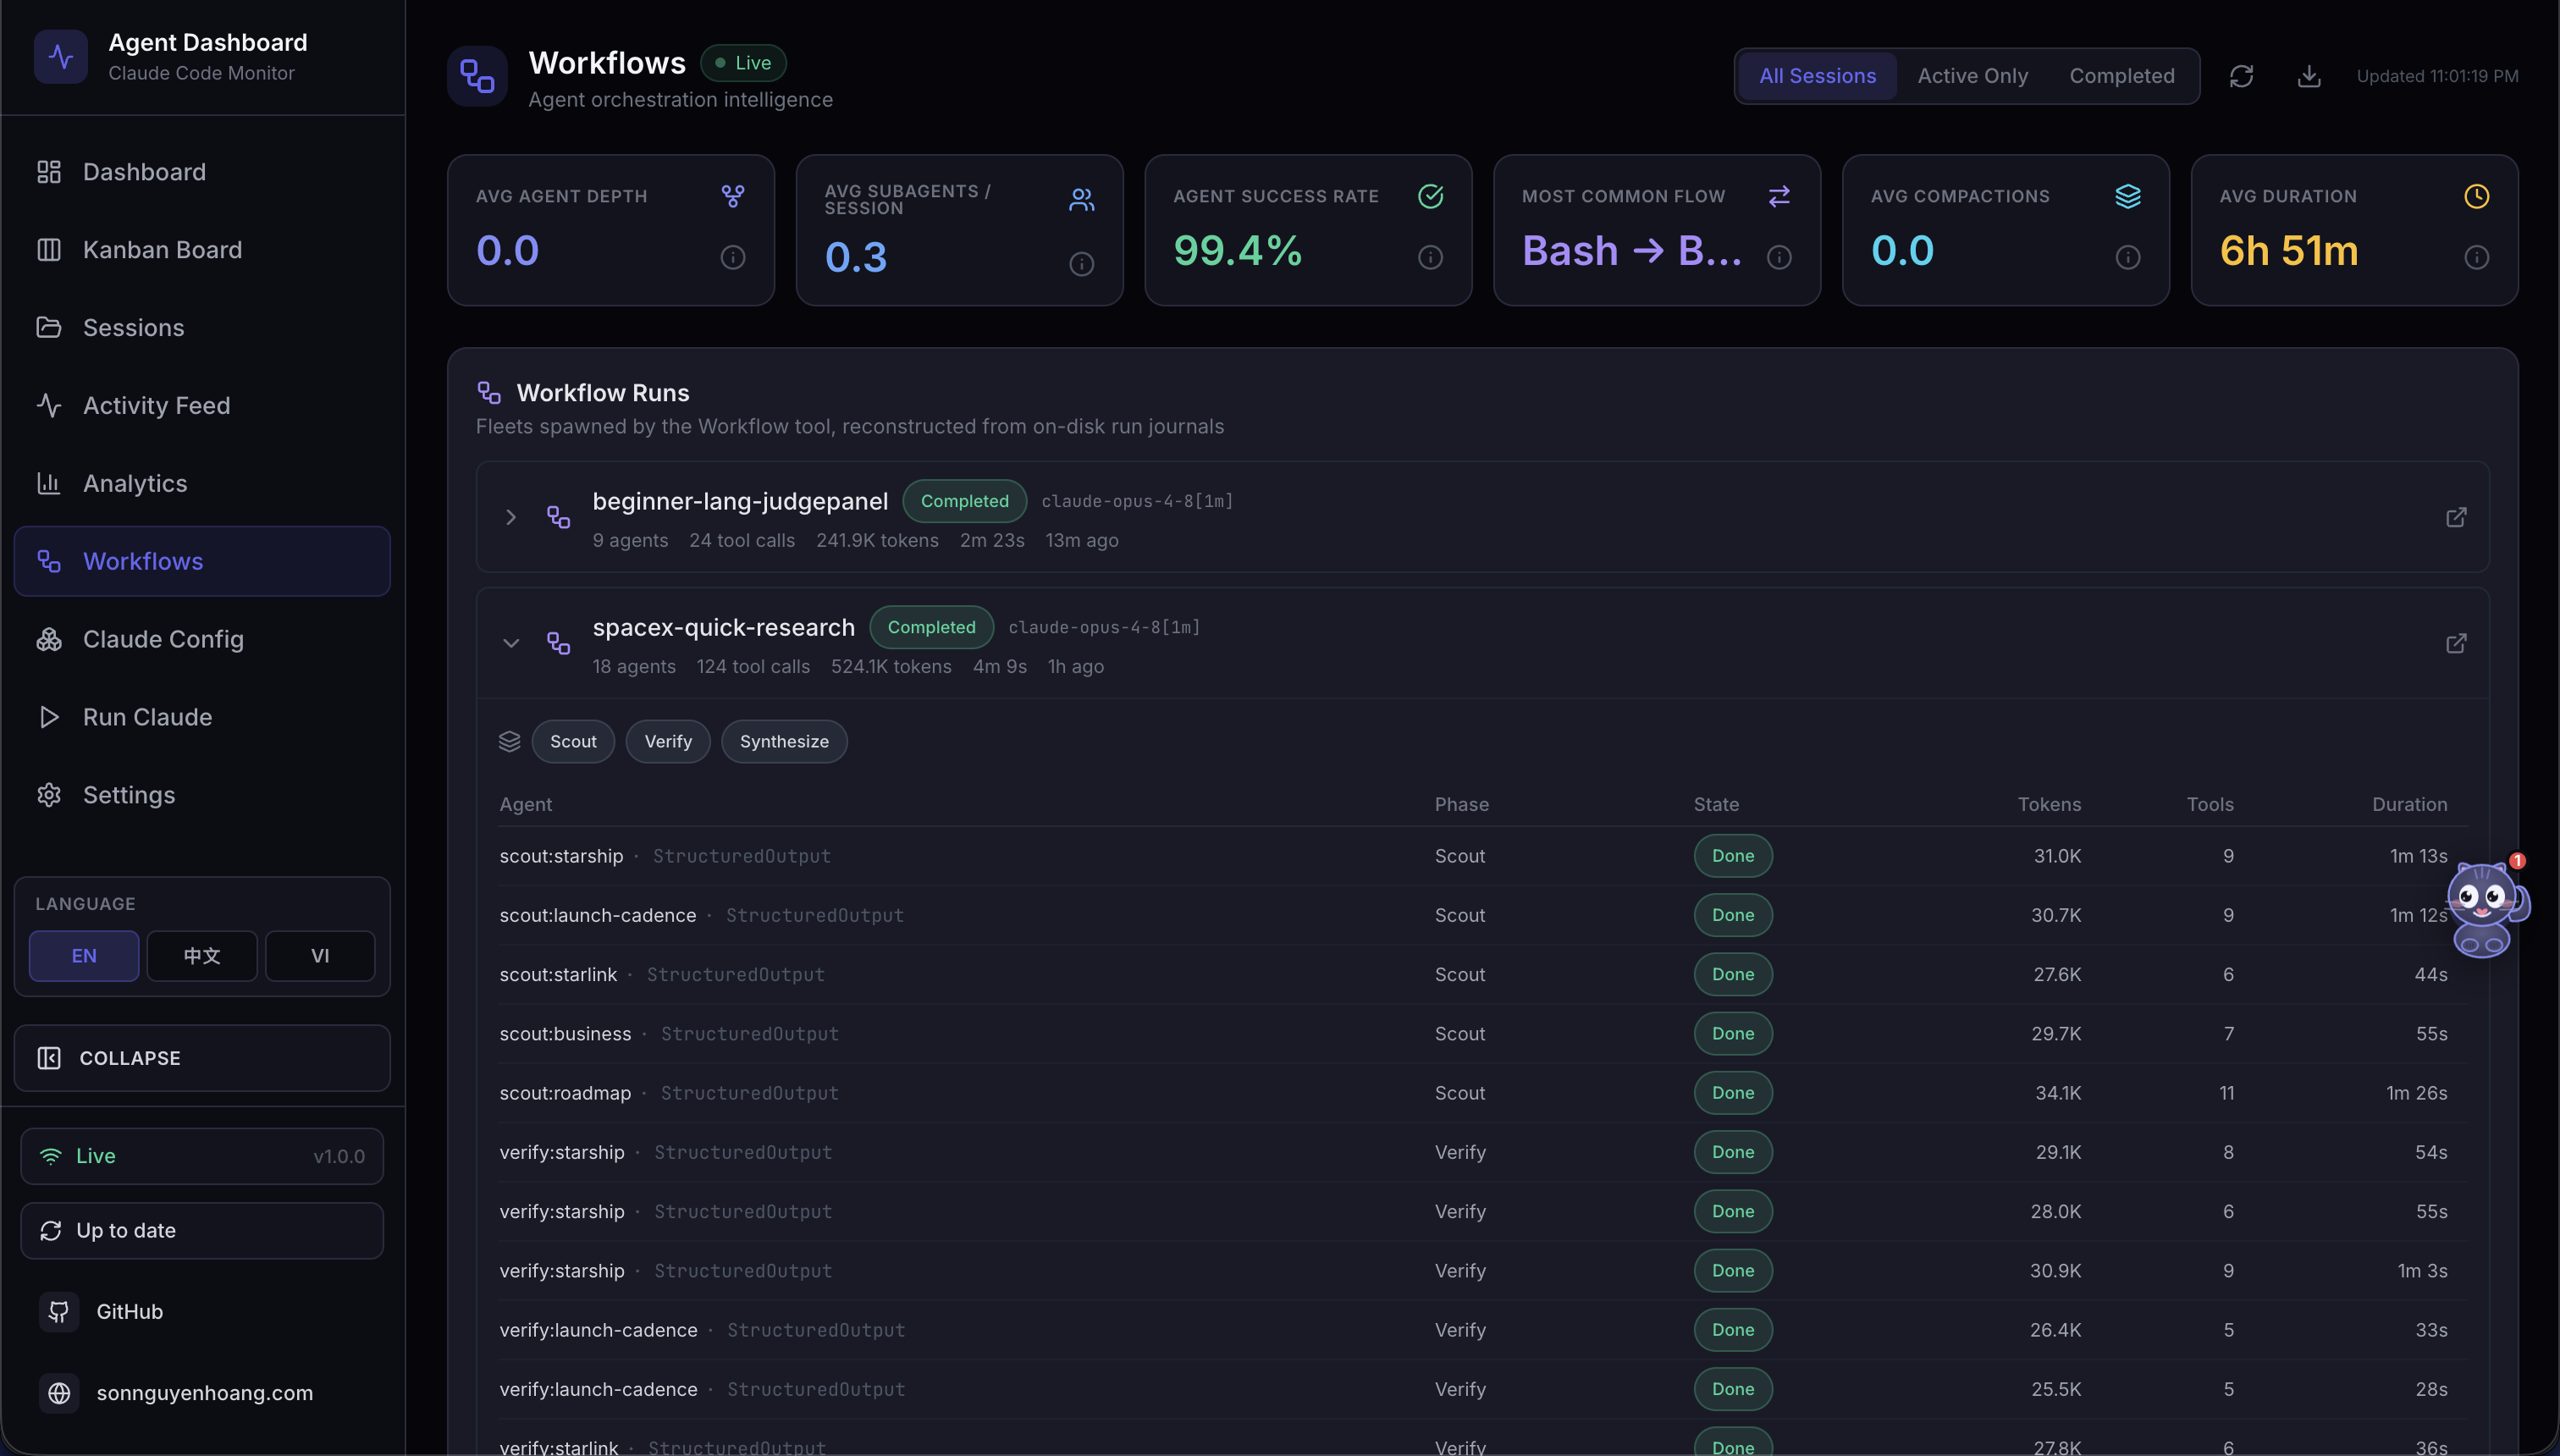
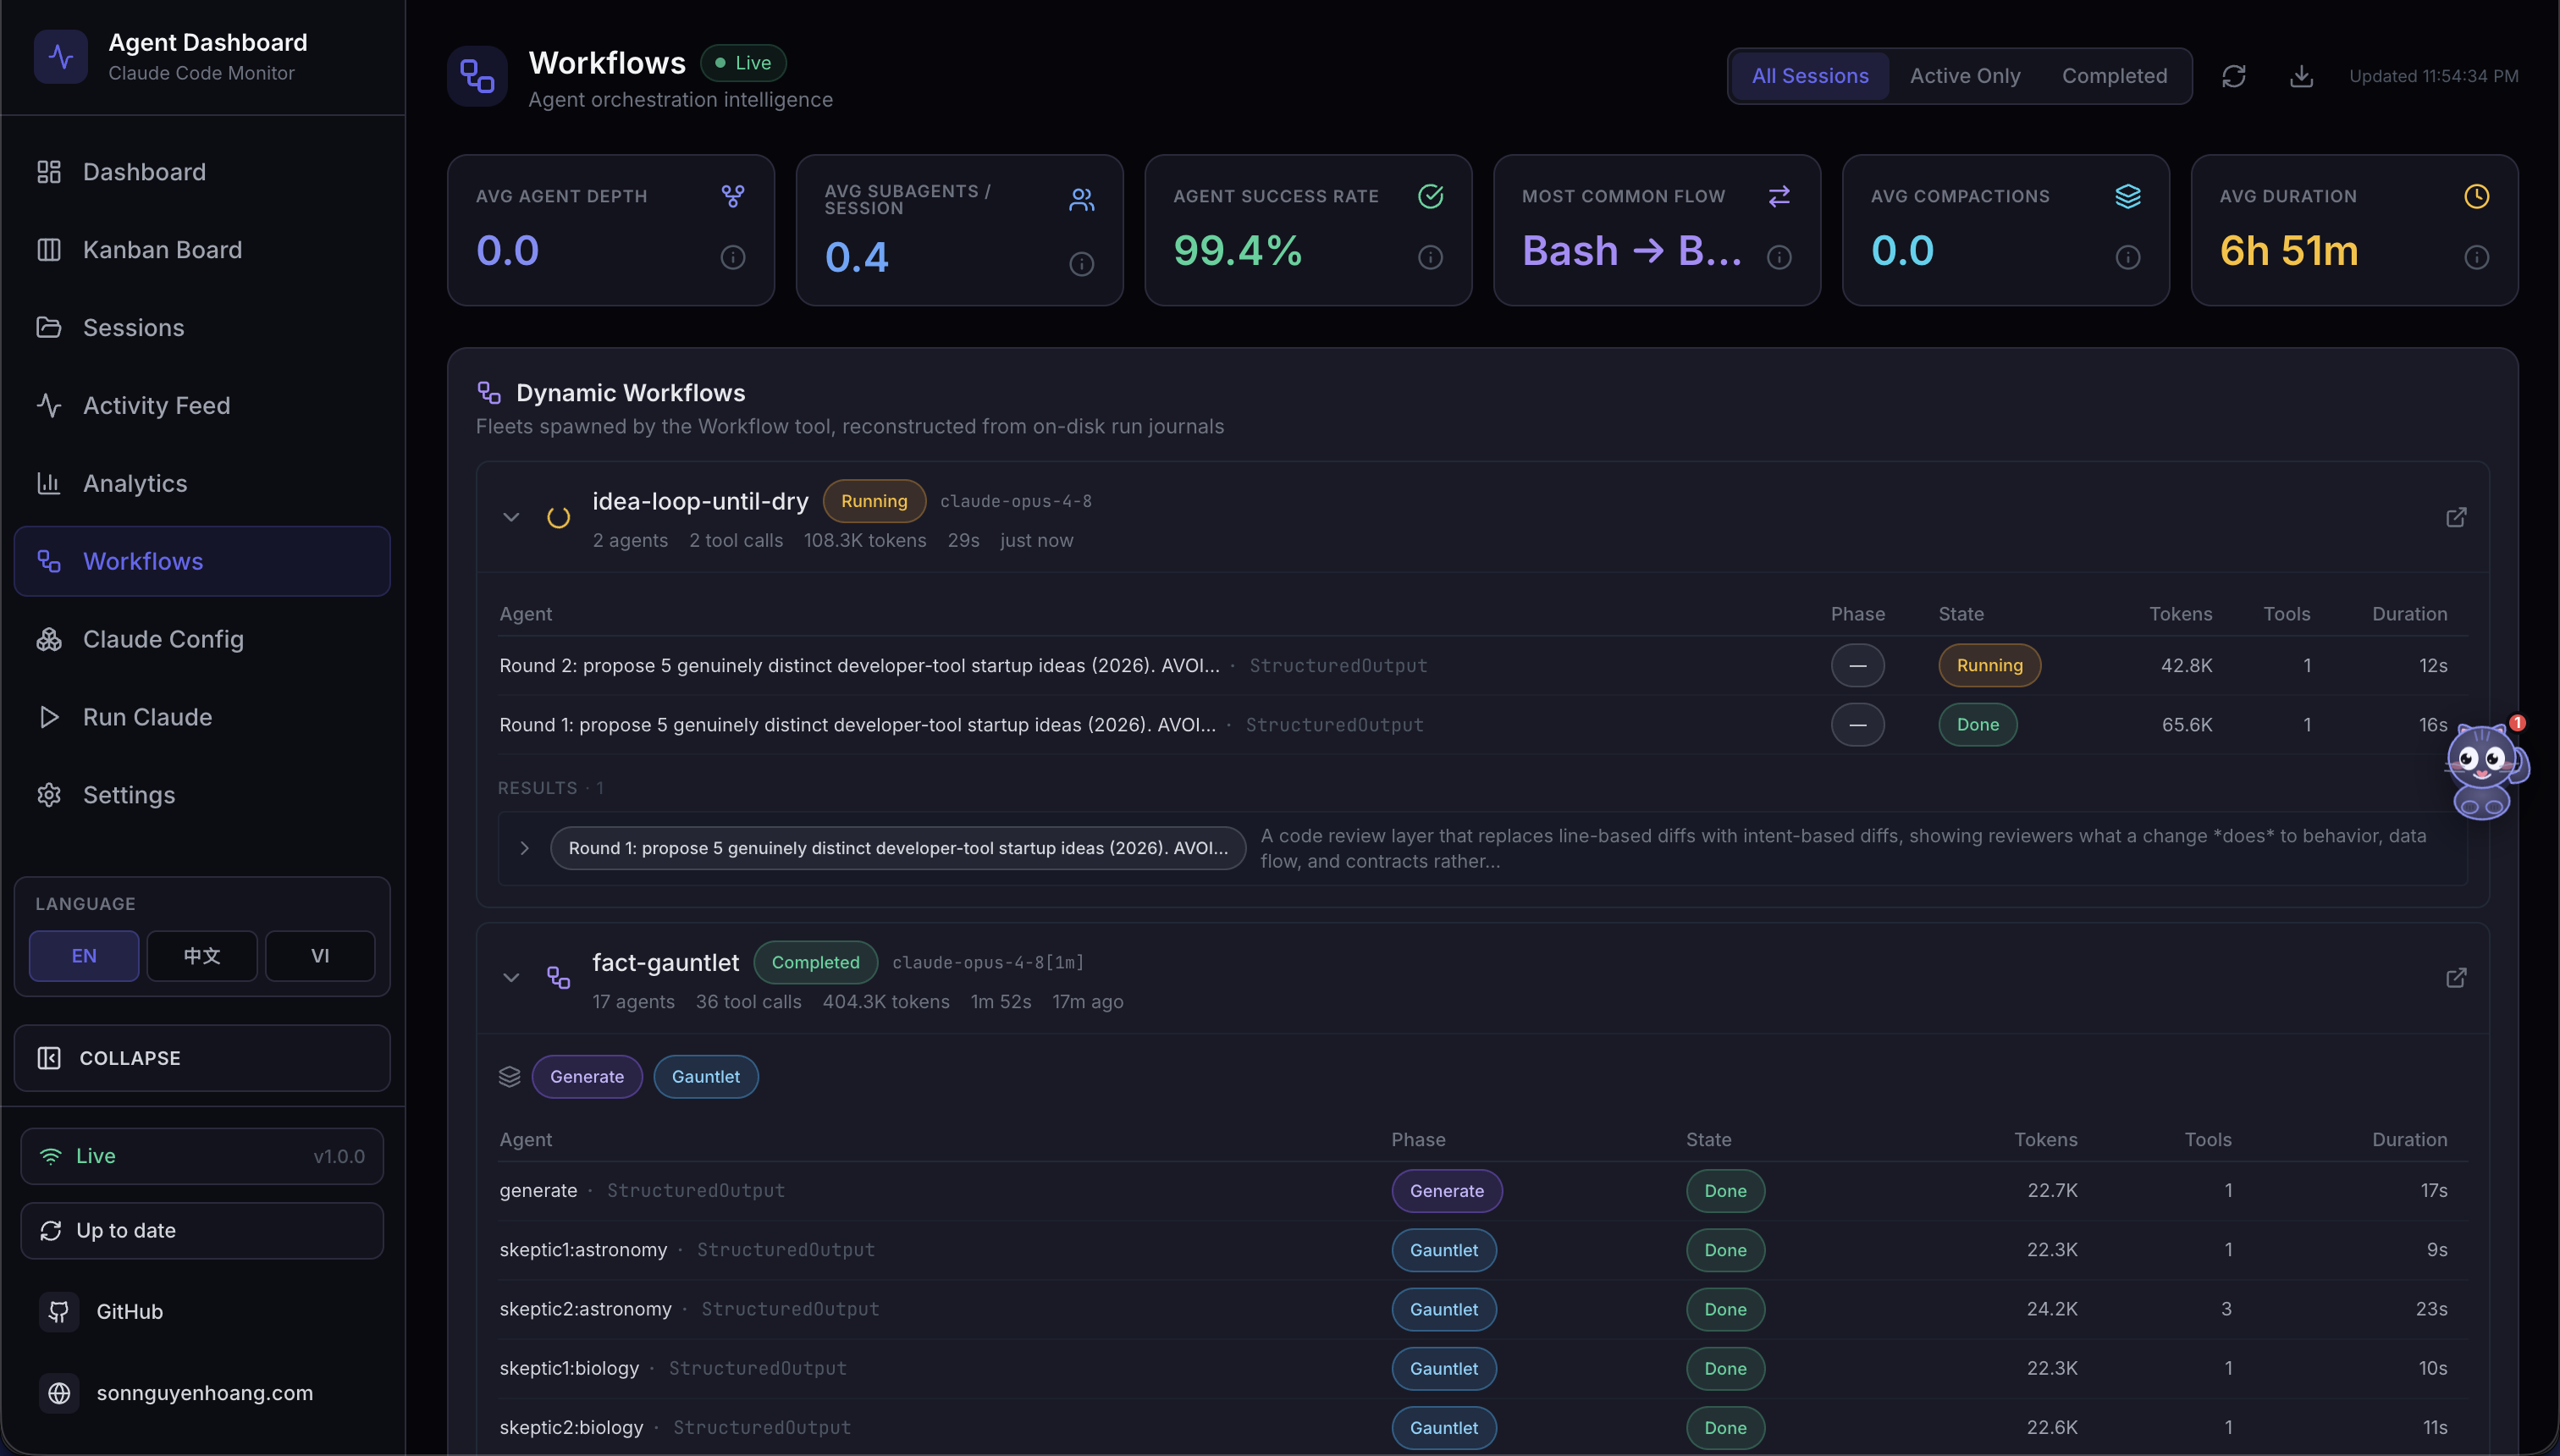
docs(landing): remove the "Workflow Run expanded" showcase card
Drop the dynamicworkflows-workflows2.png card from the landing screenshots
gallery (kept in the READMEs and wiki). Also pick up the refreshed
dynamicworkflows-workflows.png asset.

diff --git a/index.html b/index.html
@@ -3011,16 +3011,6 @@
               </div>
             </div>
           </div>
-          <div class="showcase-card" data-cat="tools" data-title="Workflow Run expanded">
-            <div class="showcase-img">
-              <img src="images/dynamicworkflows-workflows2.png" alt="Dynamic Workflow Run expanded with phase filters and per-agent results" loading="lazy" />
-              <span class="showcase-expand-icon">⤢</span>
-              <div class="showcase-overlay">
-                <h4>Workflow Run — expanded</h4>
-                <p>Color-coded phase filters, per-agent metrics, and clickable results that expand to full prompt + output</p>
-              </div>
-            </div>
-          </div>
           <div class="showcase-card" data-cat="tools" data-title="Workflow Runs in a session">
             <div class="showcase-img">
               <img src="images/dynamicworkflows-session.png" alt="Dynamic Workflow Runs on the session detail page" loading="lazy" />